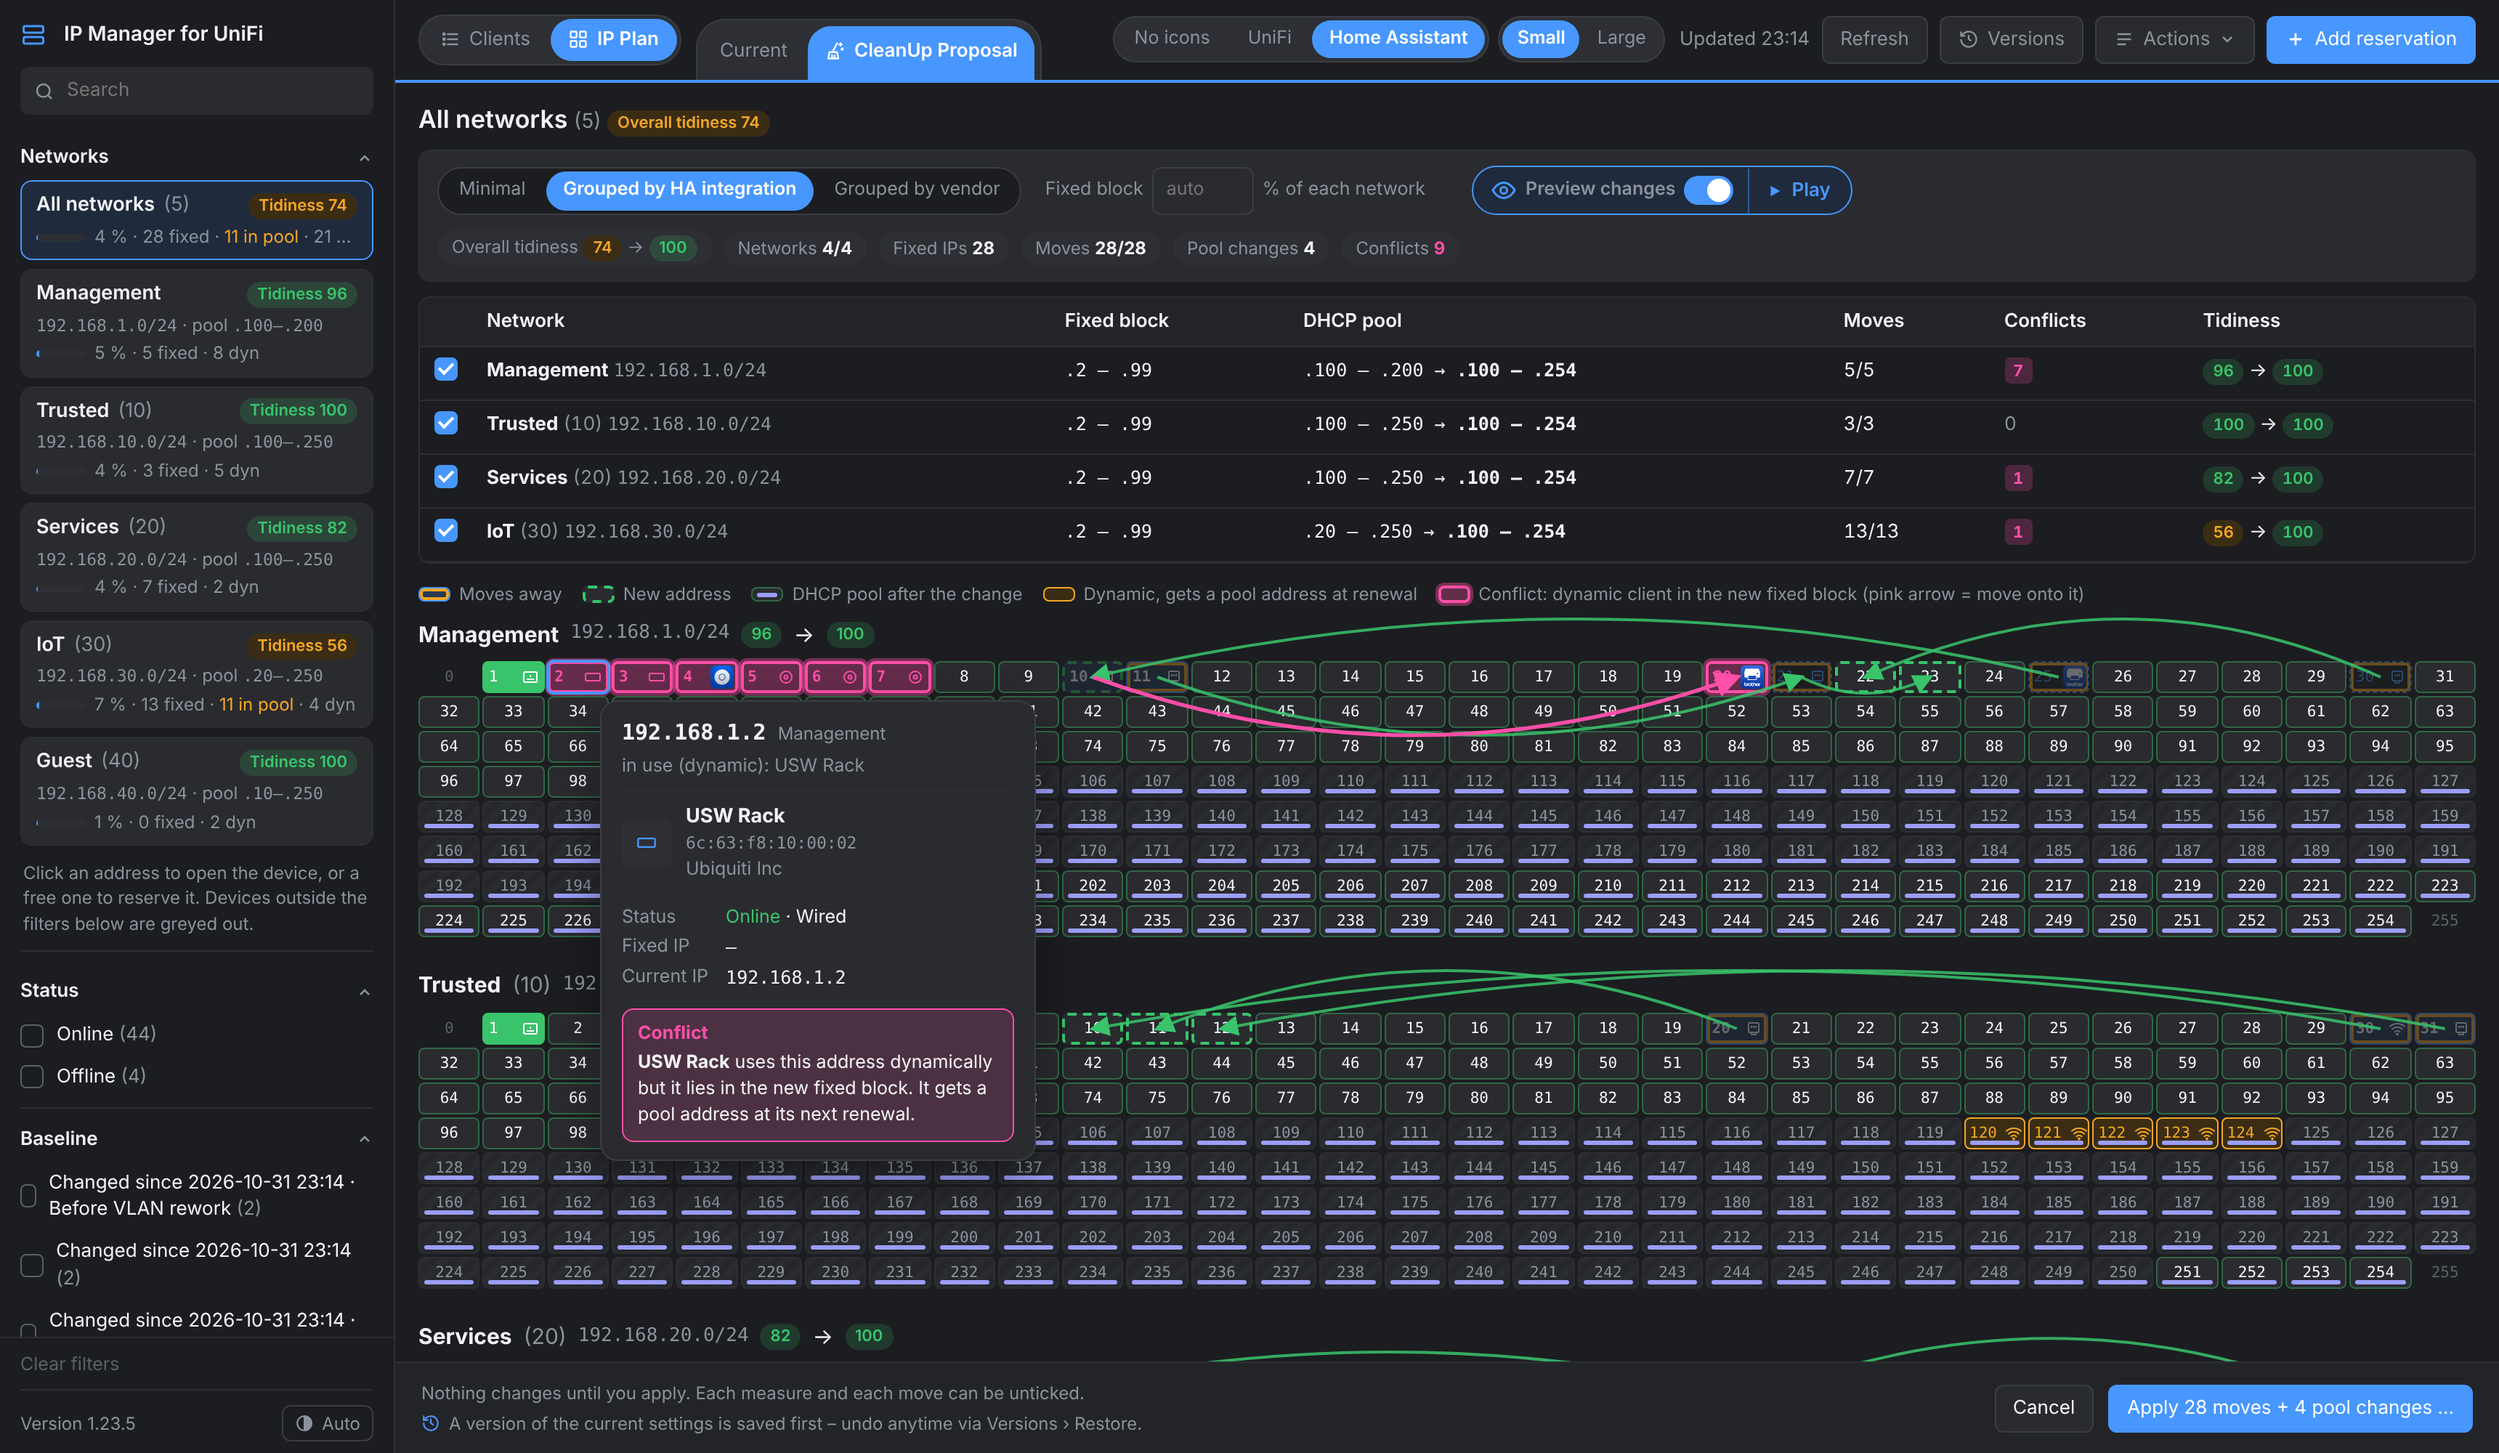
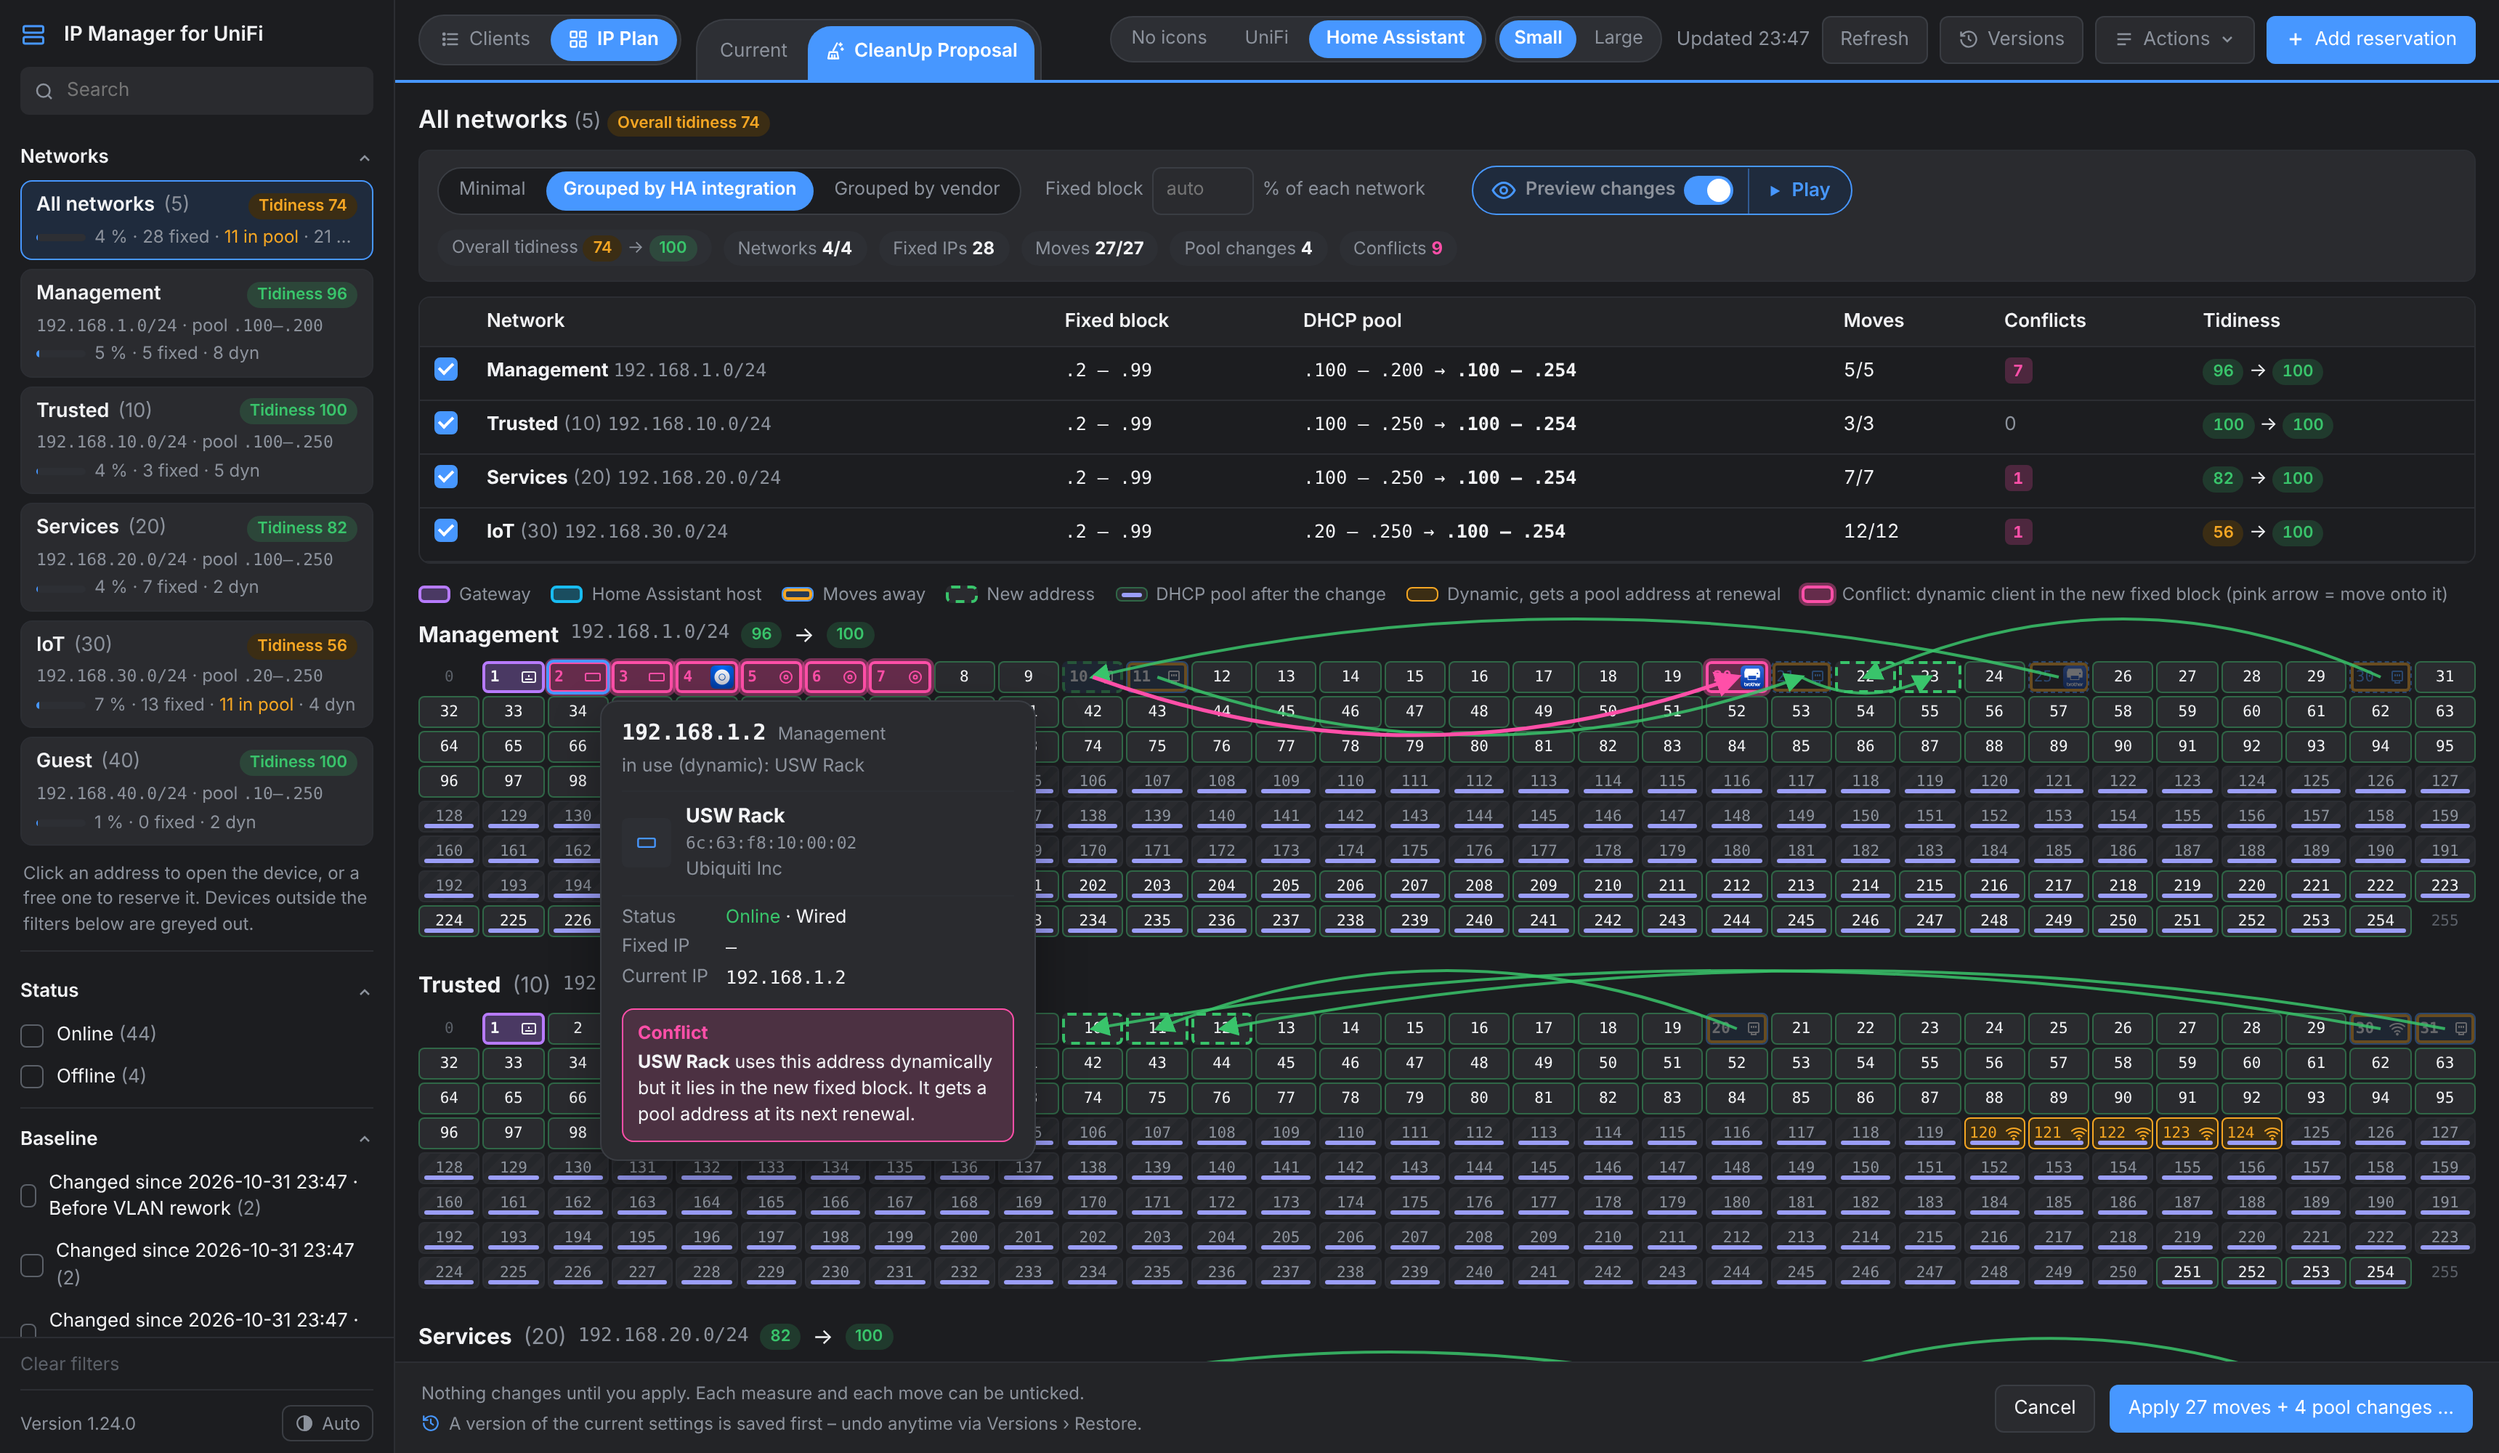
README + screenshots for 1.24.0
Claude-Session: https://claude.ai/code/session_01Qq55cKasRq5dm39rxnrsJV

diff --git a/README.md b/README.md
@@ -60,7 +60,7 @@ versions you can compare and restore.
 | | |
 |---|---|
 | **IP plan** | A full page next to the client list (switch *Clients / IP Plan*), filtered by the same sidebar filters (non-matching devices greyed out): networks as cards with utilization and a **Tidiness score** (0–100: fixed IPs outside the pool, close together, no conflicts), plus an address grid that shows conflicts at a glance, with *No icons / UniFi / Home Assistant* icons. Click an address to open the device – or a free one to reserve it – in the detail panel next to the plan. |
-| **CleanUp Proposal** | Suggests a tidy layout (fixed block + DHCP pool behind it) – *minimal*, *grouped by HA integration* or *grouped by vendor* – for one network or **all networks at once** (overall tidiness before → after), right in the IP plan as a tab. *Preview changes* shows every move as an arrow, **conflicts in pink** (dynamic clients in the new fixed block), and a hover card shows the concrete change per address. After one confirmation it runs in a safe order: save a version → change the pools → reconnect conflicting Wi-Fi clients → move the fixed IPs → reconnect the moved clients. |
+| **CleanUp Proposal** | Suggests a tidy layout (fixed block + DHCP pool behind it) – *minimal*, *grouped by HA integration* or *grouped by vendor* – for one network or **all networks at once** (overall tidiness before → after), right in the IP plan as a tab. *Preview changes* shows every move as an arrow, **conflicts in pink** (dynamic clients in the new fixed block), and a hover card shows the concrete change per address. The **Home Assistant host** (HA blue) and the **gateway** (violet) are never moved. After one confirmation it runs in a safe order: save a version → change the pools → reconnect conflicting Wi-Fi clients → move the fixed IPs → reconnect the moved clients. |
 | **Replace subnet** | Move all fixed IPs from e.g. `192.168.30.x` to `192.168.31.x`, keeping the host part. A preview catches collisions before anything changes. |
 | **CSV import & export** | Bulk changes with a validated preview and a checkbox per row. An export can be re-imported as is. Hosts-file export of fixed IPs and DNS records. |
 | **Network rules** | “Vendor contains Espressif → IoT”: devices in the wrong network are flagged. |
@@ -191,7 +191,7 @@ A small Python service (standard library only) inside the app talks to the UniFi
 - **Read:** `rest/user`, `stat/sta`, `stat/device`, `rest/networkconf`, and v2 `clients/active` for Teleport.
 - **Write:** `rest/user` for name, note, fixed IP, AP lock, local DNS and the virtual network override; `cmd/stamgr` (`kick-sta` to reconnect, `forget-sta` to forget a client); `rest/networkconf` only for the DHCP pool of a CleanUp Proposal.
 
-For the Home Assistant features, the service reads the device registry through the Supervisor API (read-only) and creates notifications. Views and versions are stored in the app's `/data` folder, so they are included in Home Assistant backups.
+For the Home Assistant features, the service reads the device registry through the Supervisor API (read-only), reads the host's own addresses (`network/info`, so CleanUp never moves the Home Assistant host) and creates notifications. Views and versions are stored in the app's `/data` folder, so they are included in Home Assistant backups.
 
 ## Contributing
 
